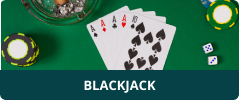
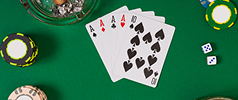
исправление

diff --git a/index.html b/index.html
@@ -498,10 +498,13 @@
              <a href="#" class="button sidebar__button">get bonus</a>
              </div>
              <div class="sidebar__cards">
-                <a href="#"><img src="./images/sidebar/blackjack.png" width="115" alt="blackjack" title></a>
-              <a href="#"><img src="./images/sidebar/roulette.png" width="115" alt="roulette" title></a>
+                <a href="#"><img src="./images/sidebar/blackjack.png" width="115" alt="blackjack" title>
+                <div class="sidebar__text">Blackjack</div></a>
+              <a href="#"><img src="./images/sidebar/roulette.png" width="115" alt="roulette" title>
+              <div class="sidebar__text sidebar__text-first">Roulette</div></a>
              
-             <a href="#"><img src="./images/sidebar/slots.png" width="240" alt="slots" title></a>
+             <a href="#"><img src="./images/sidebar/slots.png" width="240" alt="slots" title>
+              <div class="sidebar__text sidebar__text-last">Slots</div></a>
              </div>
         </aside> 
         <div class=""  onclick="scrollToTop()">

diff --git a/css/main.css b/css/main.css
@@ -662,8 +662,38 @@ svg {
 }
 
 .sidebar__cards a img{
+  position: relative;
   width: 100%;
-  height: auto;
+  height:auto;
+  display: block;
+  border-top-left-radius: 6px;
+  border-top-right-radius: 6px;
+  border-radius: 6px;
+  
+}
+
+.sidebar__text{
+  position: absolute;
+  bottom:-5px;
+  background: #054146;
+  padding: 8px 83.3px;
+  border-bottom-left-radius: 6px;
+  border-bottom-right-radius: 6px;
+  color:#ffffff;
+  font-weight: 700;
+  font-size: 13px;
+  line-height: 17.7px;
+  text-transform: uppercase;
+  overflow: hidden;
+  
+}
+
+.sidebar__text-first{
+  padding: 8px 88px;
+}
+
+.sidebar__text-last{
+  padding: 8px 100.4px;
 }
 
 /* -----------hero ----------- */
